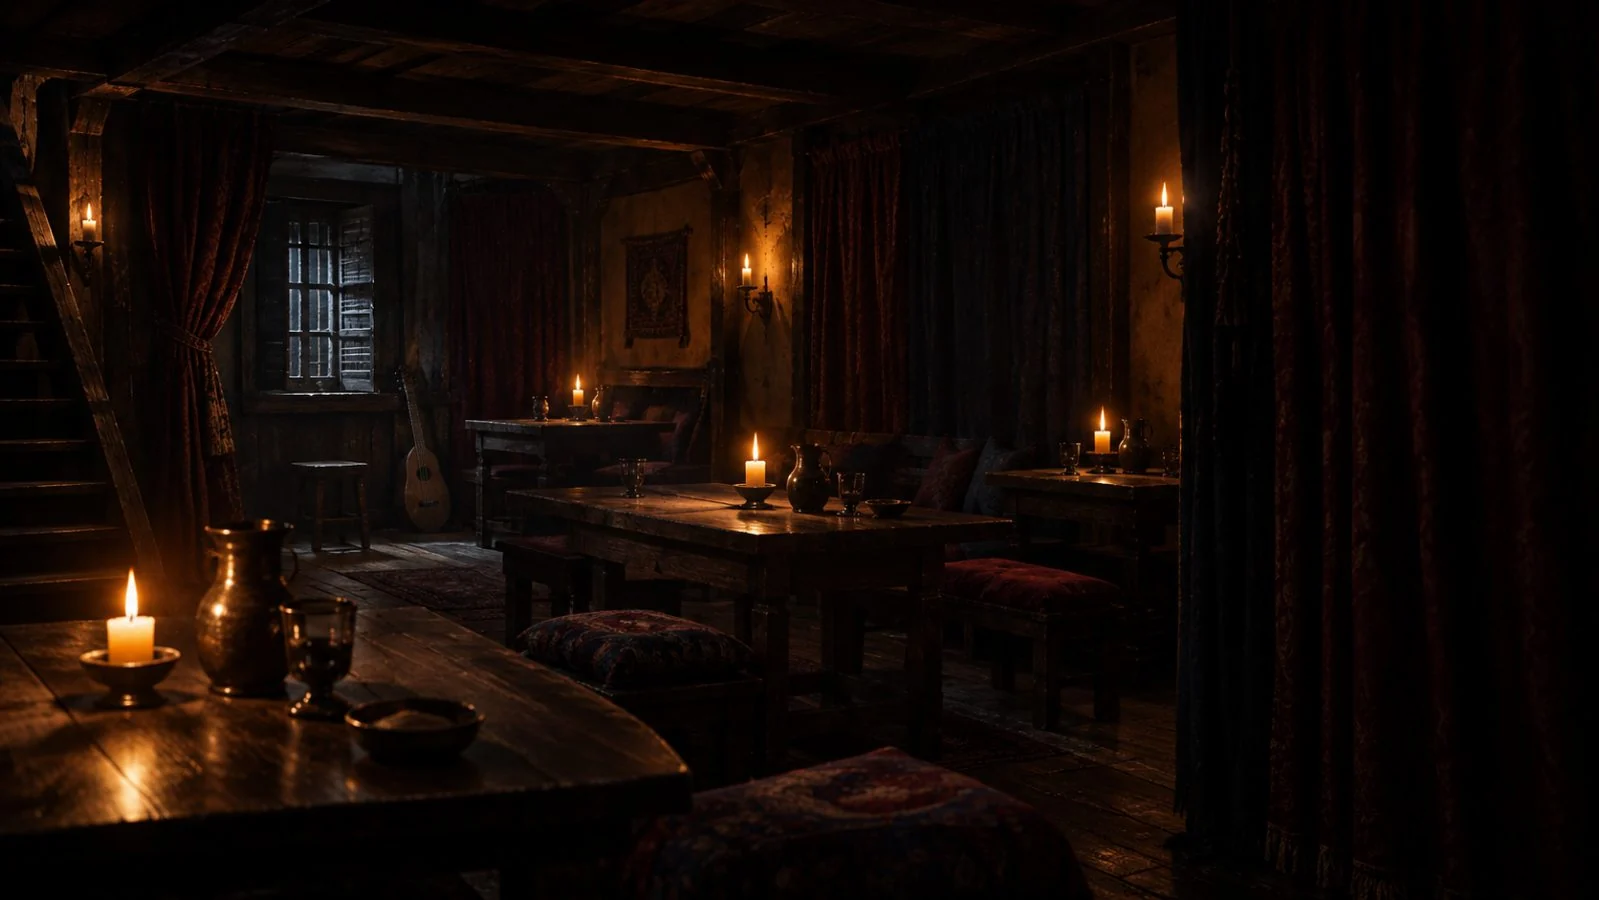
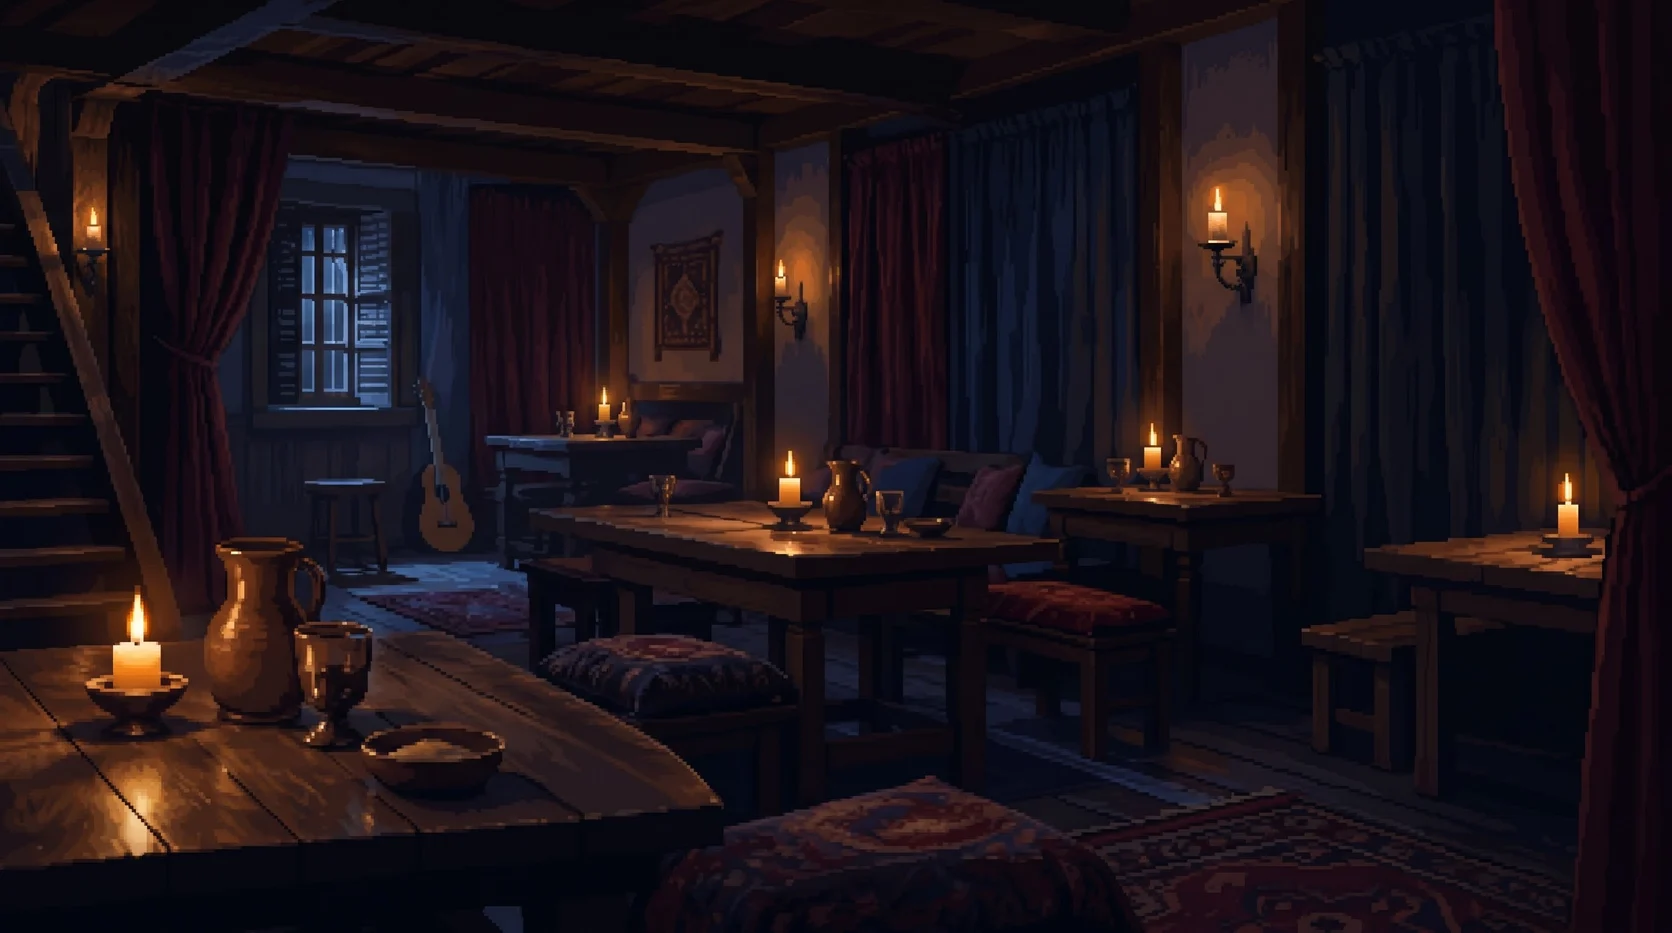
ПОРТ: общий зал «Синего часа» в спокойном пикселе (2 из 48)
Claude-Session: https://claude.ai/code/session_01AohsHedWdkfggLZ7wdatry

diff --git a/Игры/Порт/ДОСКА.md b/Игры/Порт/ДОСКА.md
@@ -153,7 +153,7 @@
 | Р21 | **Пролог (третья версия 12.11, по отзыву автора «ролик стрёмный, перебор с плёнкой, звук хрипит, музыка не та, текст странный — 3/10»).** Видео убрано совсем. Один пиксельный кадр прибытия оживает: вода колышется (пиксели воды и отражения огней построчно, 12 кадров в секунду), камера медленно подходит; без растра, зерна и цветокоррекции. Текст как в комиксе: рассказ — бумажной подписью в углу кадра, реплика — облаком с головой говорящего (грузчик — временная голова с фото-кандидата `Ресурсы/Лица/port_gruzchik_golova.webp`, ждёт живописного пикселя, Р23). Бросок швартова — физика каната (стравливается с руки, ложится на борт, петля на тумбу / в воду / за тумбу). Разговор — камера подходит к причалу, на «схоронили» кадр темнеет и музыка уходит в тишину; «Ты не знал.» в темноте → выбор начала. Звук: синтезированный шум моря убран (он хрипел), под рассказом — тема доков. Код `Движок/пролог.js`, строки `Данные/вступление.js`, тест `пролог.mjs`. **Ждёт автора:** оценка третьей версии; лицо грузчика (старшого) в живописном пикселе; озвучка (13.11) — ключа ElevenLabs у автора нет, делаем открытыми моделями в контейнере: синтез Piper (или Silero), проверка распознаванием faster-whisper. Тексты с тегами — `Данные/озвучка-пролога.js`, сверка слов с субтитрами — в `пролог.mjs`. В окружение «Телефон» уже добавлены Hugging Face и Silero; **ещё нужны два адреса — `us.aws.cdn.hf.co` (файлы моделей) и `download-r2.pytorch.org` (PyTorch для Silero)**, подтвердить можно только с ПК. Потом — доска проб (по 3–4 голоса, спокойно и с эмоцией) и выбор автора; вопросы истории В65–В70 | Вступление |
 | Р22 | **Линия Уны Марш — отложено автором 12.11, доделать потом.** У Уны теперь портрет (`Ресурсы/Лица/port_una_marsh_art.webp`: невинное закрытое платье, покрывало, ухмылка, рука у пряди). Автор хочет полноценную запретную любовную линию, не четыре намёка. Черновой ход в 10 шагов (свеча, ниша с книгами, исповедальня, город без покрывала, ставни под дождём, поминальный день 20-го, слух, Второй журнал, отъезд) и вопросы В71–В74 (насколько далеко, почему нельзя, финал, возраст) — в Редакторе, `Канон/Редактор/01_Ждёт_тебя.md`. Диалоги не писать, пока автор не ответит | Чат 12.11, портреты |
 | Р23 | **Портреты в живописный пиксель — идёт 12.11.** Все лица переводятся из фото в стиль Мэсти через Gemini (новый чат на каждый, пурпурный фон, 2–3 попытки на сходство), вырезка — `Скрипты/вырезать_портрет.py`, файл `*_art.webp`, в данных `портрет:` переключается на него. Страница с промтами — `Игры/Сайт/portrety.html` (сборка `Скрипты/portrety_page.py`). Готово: Нора, Сиб, Старшая, Ния, Уна. Ждут: остальные 21 из 26, у 35 жителей портрета нет совсем | Чат 12.11, портреты |
-| Р24 | **Фоны в спокойный пиксель — начато 13.11.** Эталон — `Ресурсы/Быт/вдова.webp` (выбор автора из 10). 48 фонов: 28 фонов мест, плюс отмеченные автором (пристань у трапа, кухня после смены, торговый и маяк — бледные, улица финала) и похожие на них (доки, работы, пролог, город). Страница с промтами — `Игры/Сайт/fony.html` (сборка `Скрипты/fony_page.py`), палитры общие с портретами (`Скрипты/palitry.py`). Готово: 1 из 48 — крыльцо «Синего часа» (старое — `Источники_Арта/Альтернативы/krylco-до-13-11-2026.webp`) | Чат 13.11, фоны |
+| Р24 | **Фоны в спокойный пиксель — начато 13.11.** Эталон — `Ресурсы/Быт/вдова.webp` (выбор автора из 10). 48 фонов: 28 фонов мест, плюс отмеченные автором (пристань у трапа, кухня после смены, торговый и маяк — бледные, улица финала) и похожие на них (доки, работы, пролог, город). Страница с промтами — `Игры/Сайт/fony.html` (сборка `Скрипты/fony_page.py`), палитры общие с портретами (`Скрипты/palitry.py`). Готово: 2 из 48 — крыльцо и общий зал «Синего часа» (старые — `Источники_Арта/Альтернативы/`) | Чат 13.11, фоны |
 
 ## 2. Ждёт вычитки или текста автора
 
